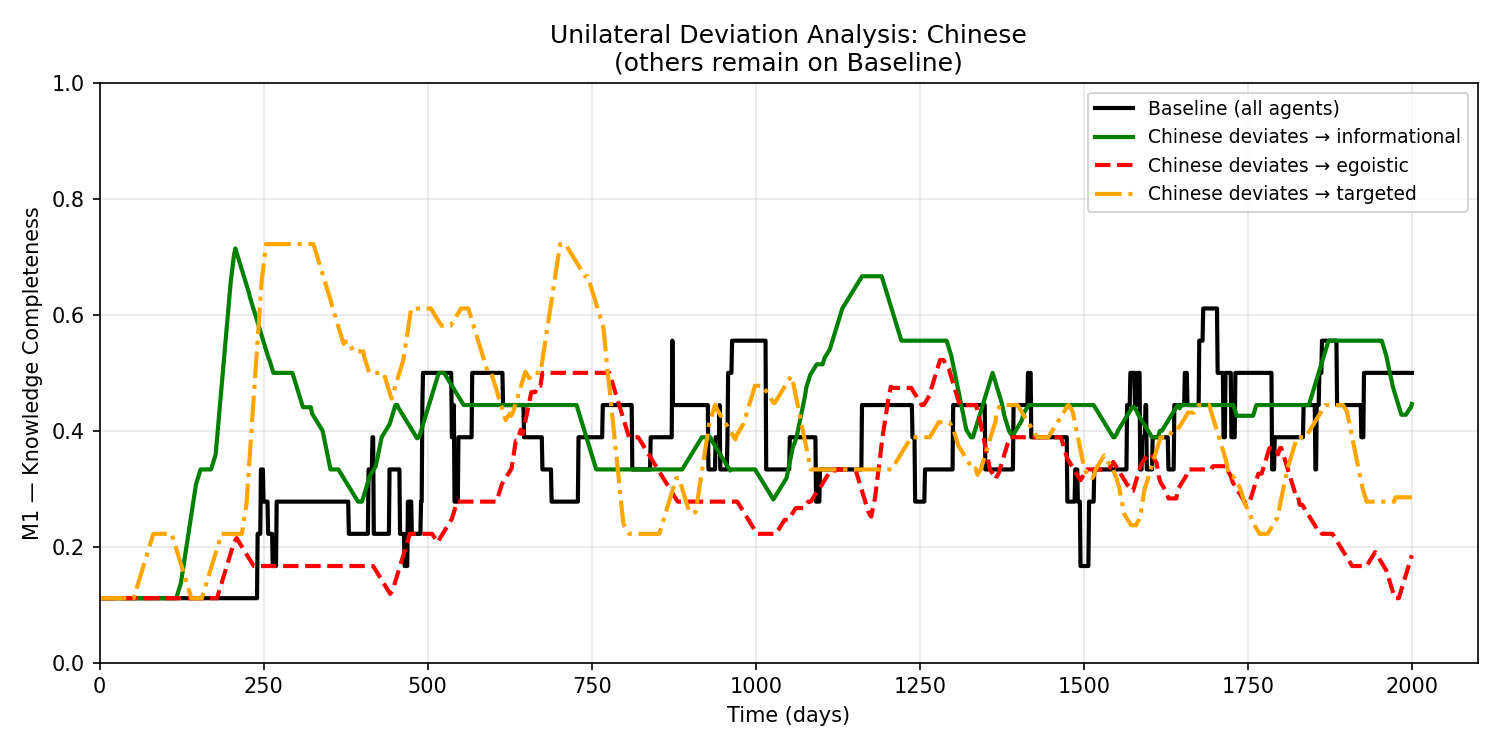
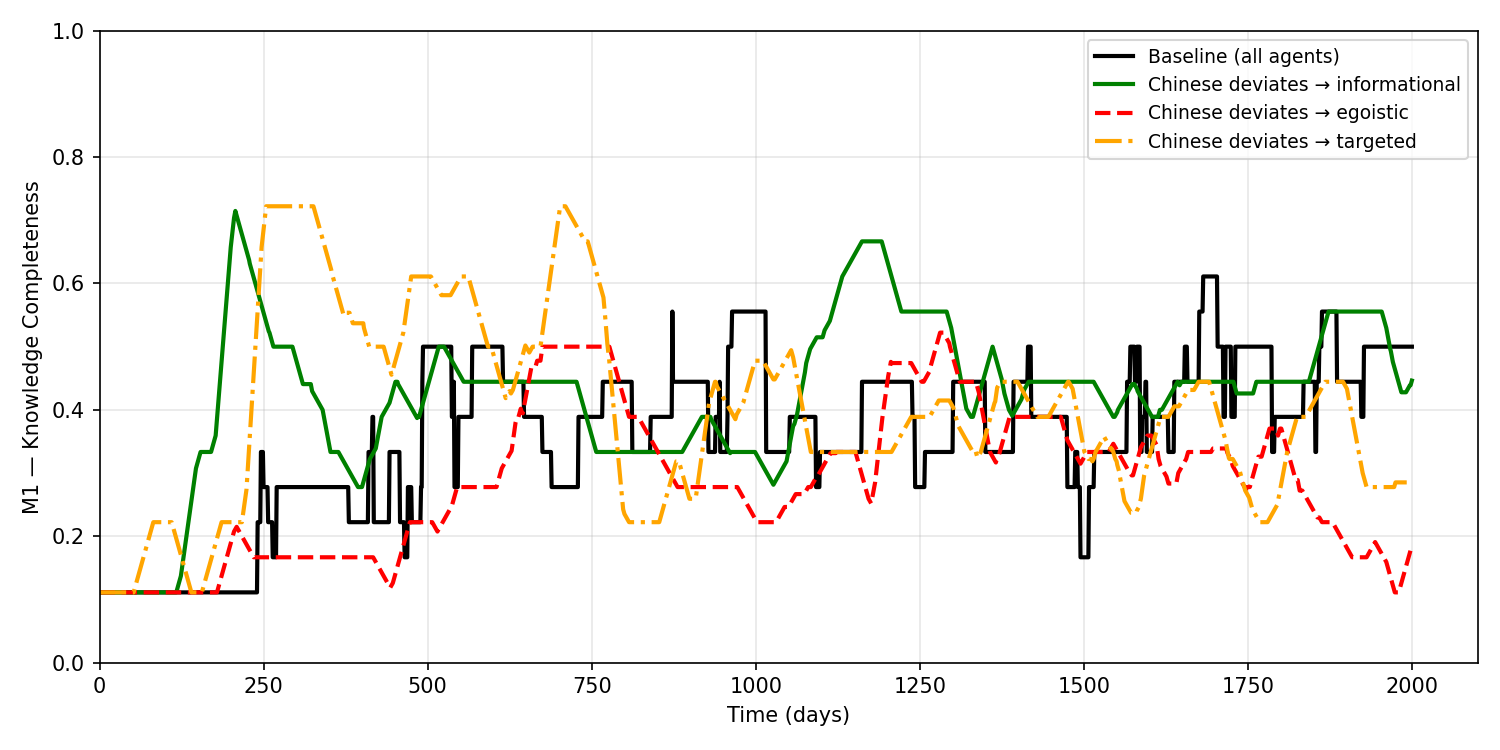
-

diff --git a/run_deviations.py b/run_deviations.py
@@ -7,11 +7,10 @@ base_dir = os.path.dirname(os.path.abspath(__file__))
 agents_list = [1, 2, 3, 4, 5, 6]
 strategies  = ['informational', 'egoistic', 'targeted']
 
-# оригинальный файл стратегий — сделаем backup
+
 original = os.path.join(base_dir, 'data/other_data/uniform_strategies.csv')
 backup   = os.path.join(base_dir, 'data/other_data/uniform_strategies_backup.csv')
 
-# сохраняем backup один раз
 if not os.path.exists(backup):
     shutil.copy(original, backup)
     print("Backup created")
@@ -36,13 +35,10 @@ for agent_id in agents_list:
         print(f"Agent {agent_id} — {strat_name}")
         print(f"{'='*50}")
 
-        # подменяем файл стратегий
         shutil.copy(strat_file, original)
 
-        # запускаем симуляцию
         subprocess.run(['python', 'main.py'], check=True)
 
-        # копируем результаты
         shutil.copytree(
             os.path.join(base_dir, 'data/output_data/logs'),
             os.path.join(result_dir, 'logs'),
@@ -56,7 +52,4 @@ for agent_id in agents_list:
 
         print(f"Saved: {result_dir}")
 
-# восстанавливаем оригинальный файл
 shutil.copy(backup, original)
-print("\nOriginal strategies restored.")
-print("All 18 runs complete.")

diff --git a/deviation_analysis.py b/deviation_analysis.py
@@ -80,10 +80,6 @@ for a in agents:
 
     ax.set_xlabel('Time (days)')
     ax.set_ylabel('M1 — Knowledge Completeness')
-    ax.set_title(
-        f'Unilateral Deviation Analysis: {nations[a]}\n'
-        f'(others remain on Baseline)'
-    )
     ax.legend(fontsize=9)
     ax.grid(True, alpha=0.3)
     ax.set_xlim(left=0)
@@ -167,8 +163,6 @@ ax.bar([i + 1.5*width for i in x], targ_finals,
 
 ax.set_xlabel('Agent')
 ax.set_ylabel('Final M1 (knowledge completeness)')
-ax.set_title('Unilateral Deviation: Final M1 per Agent\n'
-             '(each agent deviates alone, others stay on Baseline)')
 ax.set_xticks(list(x))
 ax.set_xticklabels([nations[a] for a in agents])
 ax.legend(fontsize=9)
@@ -241,8 +235,6 @@ ax.bar([i + 1.5*width for i in x], targ_m6,
 
 ax.set_xlabel('Agent')
 ax.set_ylabel('Final M6 (prediction horizon)')
-ax.set_title('Unilateral Deviation: Final M6 per Agent\n'
-             '(each agent deviates alone, others stay on Baseline)')
 ax.set_xticks(list(x))
 ax.set_xticklabels([nations[a] for a in agents])
 ax.legend(fontsize=9)

diff --git a/game_theory_analysis.py b/game_theory_analysis.py
@@ -280,13 +280,12 @@ for idx, a in enumerate(agents):
                 linewidth=1.5)
     ax.set_title(f'Agent {a}: {nations[a]}')
     ax.set_xlabel('Time (days)')
-    ax.set_ylabel('M1 — Hamster (rolling mean, w=50)')
+    ax.set_ylabel('M1 — Hamster')
     ax.set_xlim(left=0)
     ax.set_ylim(0, 1)
     ax.grid(True, alpha=0.3)
 
 axes[0].legend(loc='lower right', fontsize=8)
-plt.suptitle('Per-Agent Situational Awareness of Hamster Location', fontsize=13)
 plt.tight_layout()
 plt.savefig('results/graphs/graph_hamster_per_agent.png', dpi=150)
 plt.close()
@@ -311,8 +310,7 @@ for name, m in STRATEGIES.items():
             linewidth=2)
 
 ax.set_xlabel('Time (days)')
-ax.set_ylabel('Average M1 — Hamster tracking (rolling mean, w=50)')
-ax.set_title('Situational Awareness of Hamster Location Across Strategies')
+ax.set_ylabel('Average M1 - Hamster')
 ax.set_xlim(left=0)
 ax.set_ylim(0, 1)
 ax.legend()
